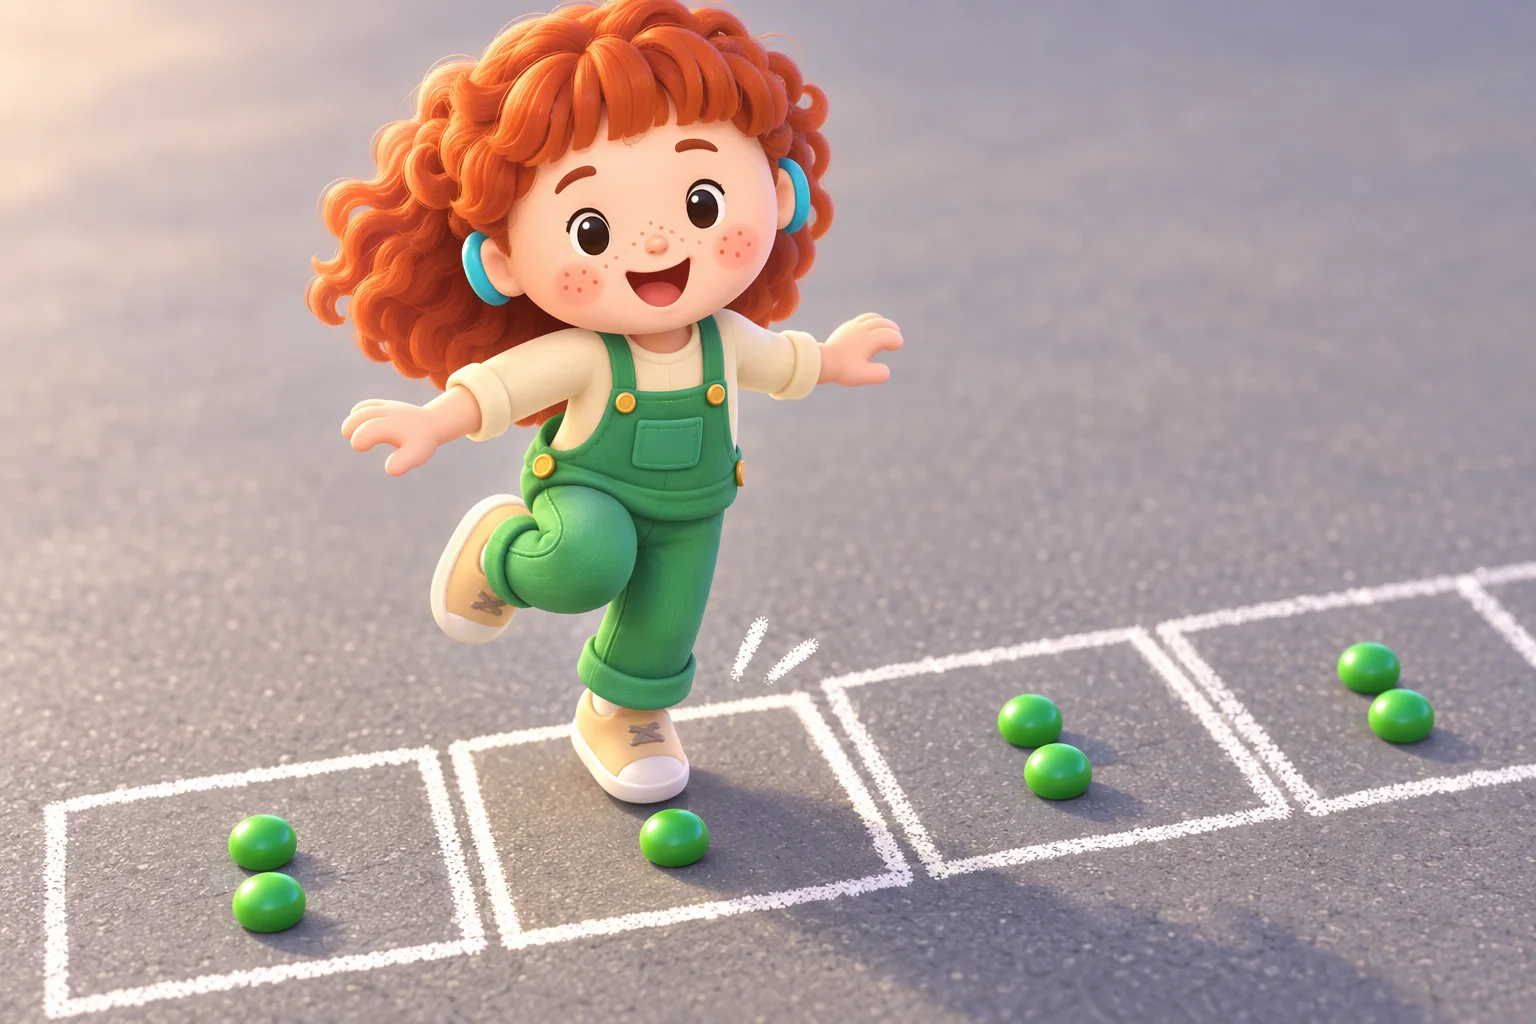
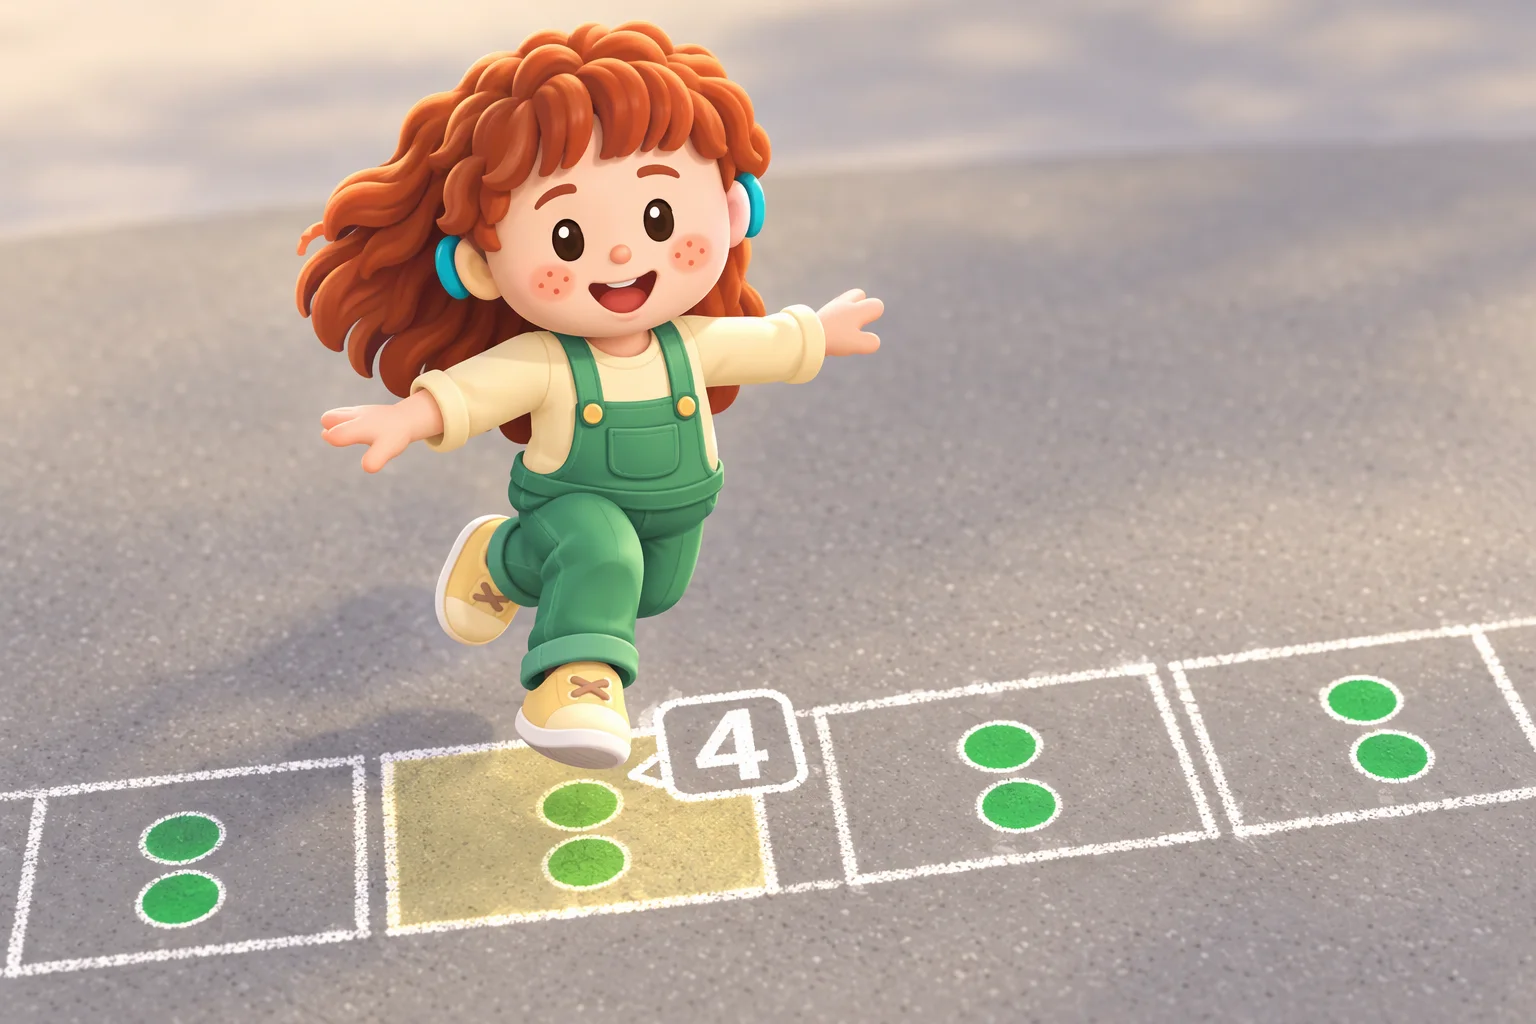
feat(spielbild): Beschreibung des Spiels geht mit, Material bleibt (Kreide bleibt Kreide; Christian 2026-11-15)
spielbild.mjs schickt beschreibung aus spiele.json mit und verlangt, dass Gezeichnetes gezeichnet bleibt. Kettenhüpfer:
Beschreibung und Kurztext auf das Kreidespiel aktualisiert, Spielbild neu (Kreideperlen flach statt 3D-Kugeln).
bauen.md: beschreibung nennt, was gemalt und was echt ist.

diff --git a/.claude/skills/spiel-entwickeln/bauen.md b/.claude/skills/spiel-entwickeln/bauen.md
@@ -16,7 +16,8 @@ und in höchstens etwa 2,5 s fertig ist, Klänge aus Web Audio, nichts ruckelt.
 
 - Spielordner `{{SPIELORDNER}}` aus `spiele/vorlage/` (Schritte im Kopf von `spiel.js`). Gibt es ihn schon (Neubau),
   ersetze, was der Idee widerspricht; behalte, was ihr dient (Lernsteuerung, Test-Schnittstelle, Aufgabenart).
-- Eintrag in `spiele/spiele.json` nach der Idee; Aufgaben über die Lernsteuerung, jede Aufgabe gemeldet.
+- Eintrag in `spiele/spiele.json` nach der Idee; Aufgaben über die Lernsteuerung, jede Aufgabe gemeldet. Die
+  `beschreibung` sagt, wie das Spiel aussieht und was gemalt und was echt ist (das Spielbild der Karte entsteht daraus).
 - **Test-Schnittstelle** (`spiele/rahmen/pruefen.js`): `zuege()`, `richtigerZug()`, `zustand()` mit den Phasen
   laden, einfuehrung, aufgabe, folge, pause, fehler – der Prüfstand und der Filmstreifen spielen nur darüber.
 - Feste Sätze in `texte.json` (oder `einfuehrung.json`), wörtlich aus der Idee; nichts dazuerfinden.
